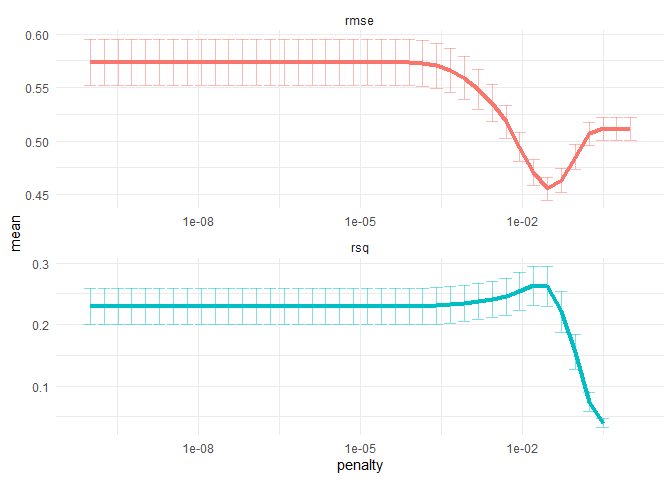
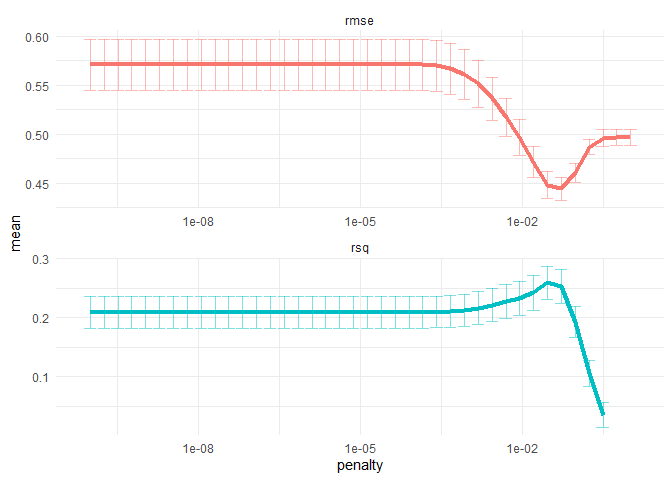
TheOffice+

diff --git a/TheOffice/TheOffice.md b/TheOffice/TheOffice.md
@@ -487,20 +487,20 @@ lasso_fit %>%
   tidy()
 ```
 
-    ## # A tibble: 1,369 x 5
+    ## # A tibble: 1,112 x 5
     ##    term         step estimate lambda dev.ratio
     ##    <chr>       <dbl>    <dbl>  <dbl>     <dbl>
-    ##  1 (Intercept)     1  8.48     0.188    0     
-    ##  2 (Intercept)     2  8.48     0.171    0.0313
-    ##  3 michael         2  0.0175   0.171    0.0313
-    ##  4 phyllis         2  0.00450  0.171    0.0313
-    ##  5 (Intercept)     3  8.48     0.156    0.0793
-    ##  6 michael         3  0.0360   0.156    0.0793
-    ##  7 phyllis         3  0.0229   0.156    0.0793
-    ##  8 (Intercept)     4  8.48     0.142    0.119 
-    ##  9 michael         4  0.0528   0.142    0.119 
-    ## 10 phyllis         4  0.0397   0.142    0.119 
-    ## # ... with 1,359 more rows
+    ##  1 (Intercept)     1   8.46    0.207    0     
+    ##  2 (Intercept)     2   8.46    0.189    0.0317
+    ##  3 michael         2   0.0185  0.189    0.0317
+    ##  4 (Intercept)     3   8.46    0.172    0.0581
+    ##  5 michael         3   0.0355  0.172    0.0581
+    ##  6 (Intercept)     4   8.46    0.157    0.0957
+    ##  7 michael         4   0.0505  0.157    0.0957
+    ##  8 phyllis         4   0.0115  0.157    0.0957
+    ##  9 (Intercept)     5   8.46    0.143    0.140 
+    ## 10 michael         5   0.0640  0.143    0.140 
+    ## # ... with 1,102 more rows
 
 If you have used `glmnet` before, this is the familiar output where we
 can see (here, for the most regularized examples) the features that
@@ -553,16 +553,16 @@ lasso_grid %>%
     ## # A tibble: 80 x 6
     ##     penalty .metric .estimator  mean     n std_err
     ##       <dbl> <chr>   <chr>      <dbl> <int>   <dbl>
-    ##  1 1.00e-10 rmse    standard   0.574    25  0.0218
-    ##  2 1.00e-10 rsq     standard   0.229    25  0.0294
-    ##  3 1.80e-10 rmse    standard   0.574    25  0.0218
-    ##  4 1.80e-10 rsq     standard   0.229    25  0.0294
-    ##  5 3.26e-10 rmse    standard   0.574    25  0.0218
-    ##  6 3.26e-10 rsq     standard   0.229    25  0.0294
-    ##  7 5.88e-10 rmse    standard   0.574    25  0.0218
-    ##  8 5.88e-10 rsq     standard   0.229    25  0.0294
-    ##  9 1.06e- 9 rmse    standard   0.574    25  0.0218
-    ## 10 1.06e- 9 rsq     standard   0.229    25  0.0294
+    ##  1 1.00e-10 rmse    standard   0.571    25  0.0264
+    ##  2 1.00e-10 rsq     standard   0.210    25  0.0269
+    ##  3 1.80e-10 rmse    standard   0.571    25  0.0264
+    ##  4 1.80e-10 rsq     standard   0.210    25  0.0269
+    ##  5 3.26e-10 rmse    standard   0.571    25  0.0264
+    ##  6 3.26e-10 rsq     standard   0.210    25  0.0269
+    ##  7 5.88e-10 rmse    standard   0.571    25  0.0264
+    ##  8 5.88e-10 rsq     standard   0.210    25  0.0269
+    ##  9 1.06e- 9 rmse    standard   0.571    25  0.0264
+    ## 10 1.06e- 9 rsq     standard   0.210    25  0.0269
     ## # ... with 70 more rows
 
 That’s nice, but I would rather see a visualization of performance with
@@ -620,7 +620,7 @@ final_lasso
     ## Linear Regression Model Specification (regression)
     ## 
     ## Main Arguments:
-    ##   penalty = 0.0289426612471674
+    ##   penalty = 0.0522334507426683
     ##   mixture = 1
     ## 
     ## Computational engine: glmnet
@@ -669,5 +669,5 @@ last_fit(
     ## # A tibble: 2 x 3
     ##   .metric .estimator .estimate
     ##   <chr>   <chr>          <dbl>
-    ## 1 rmse    standard       0.393
-    ## 2 rsq     standard       0.293
+    ## 1 rmse    standard       0.426
+    ## 2 rsq     standard       0.306
